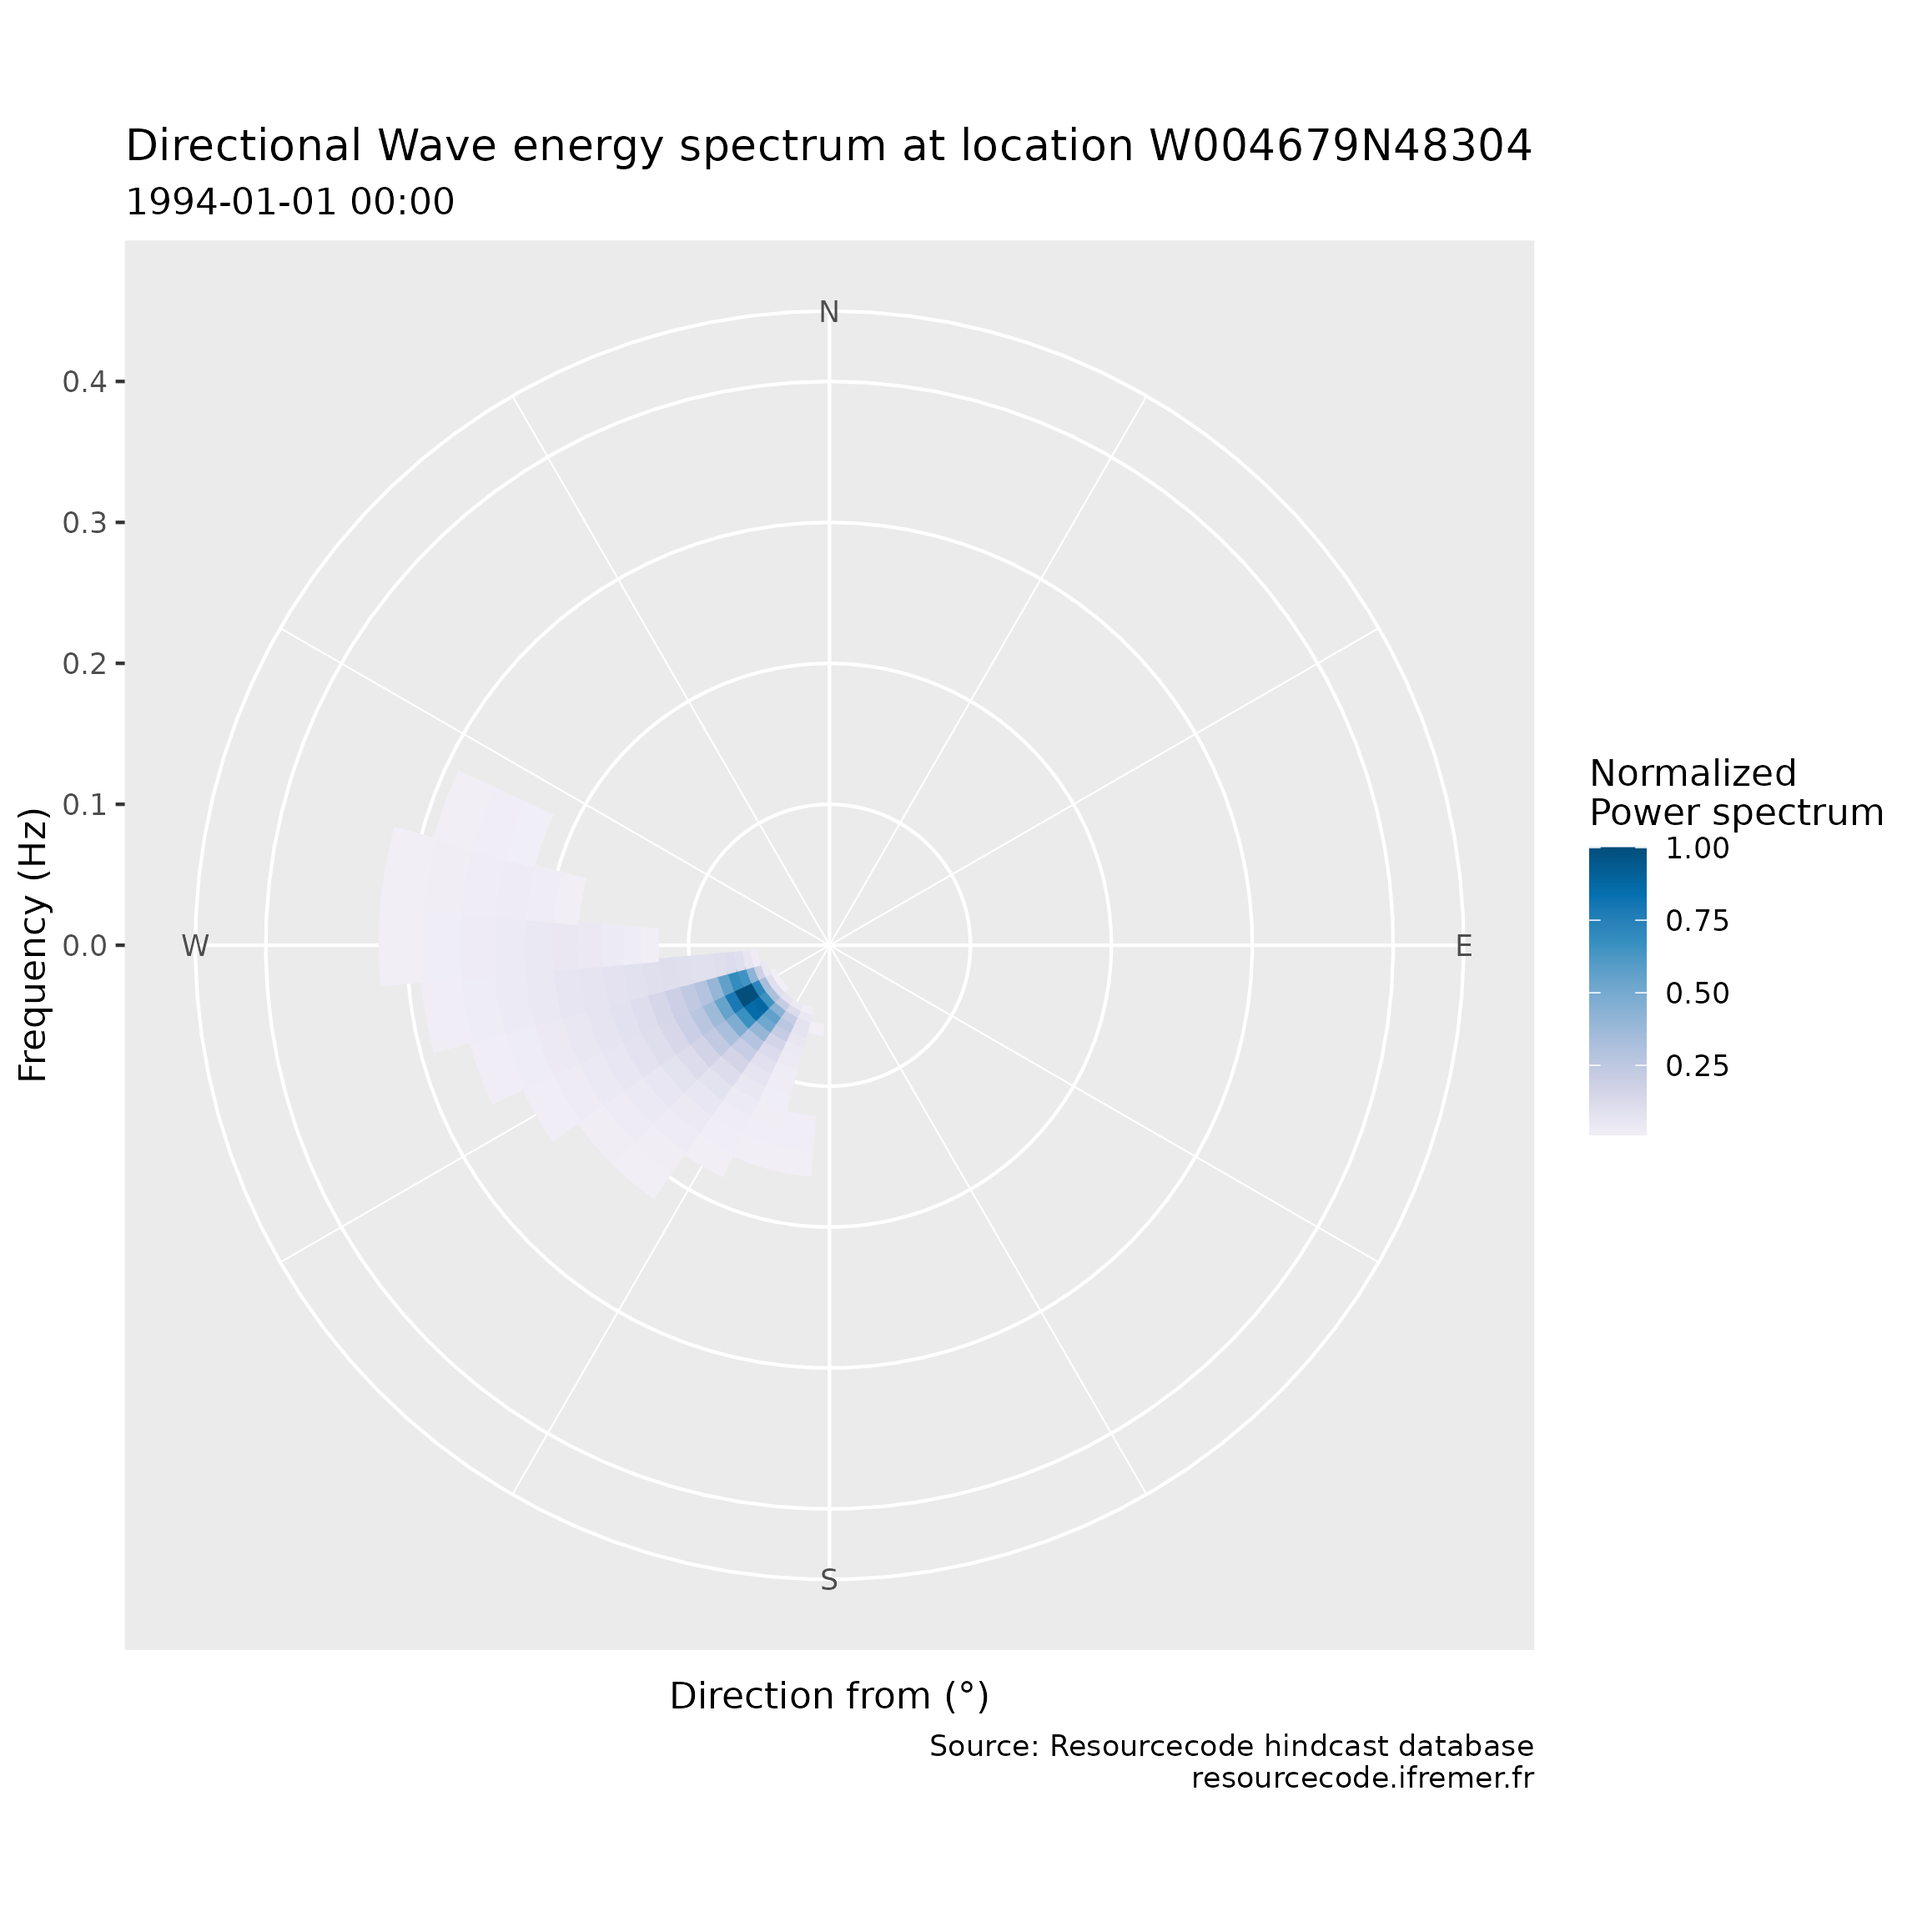
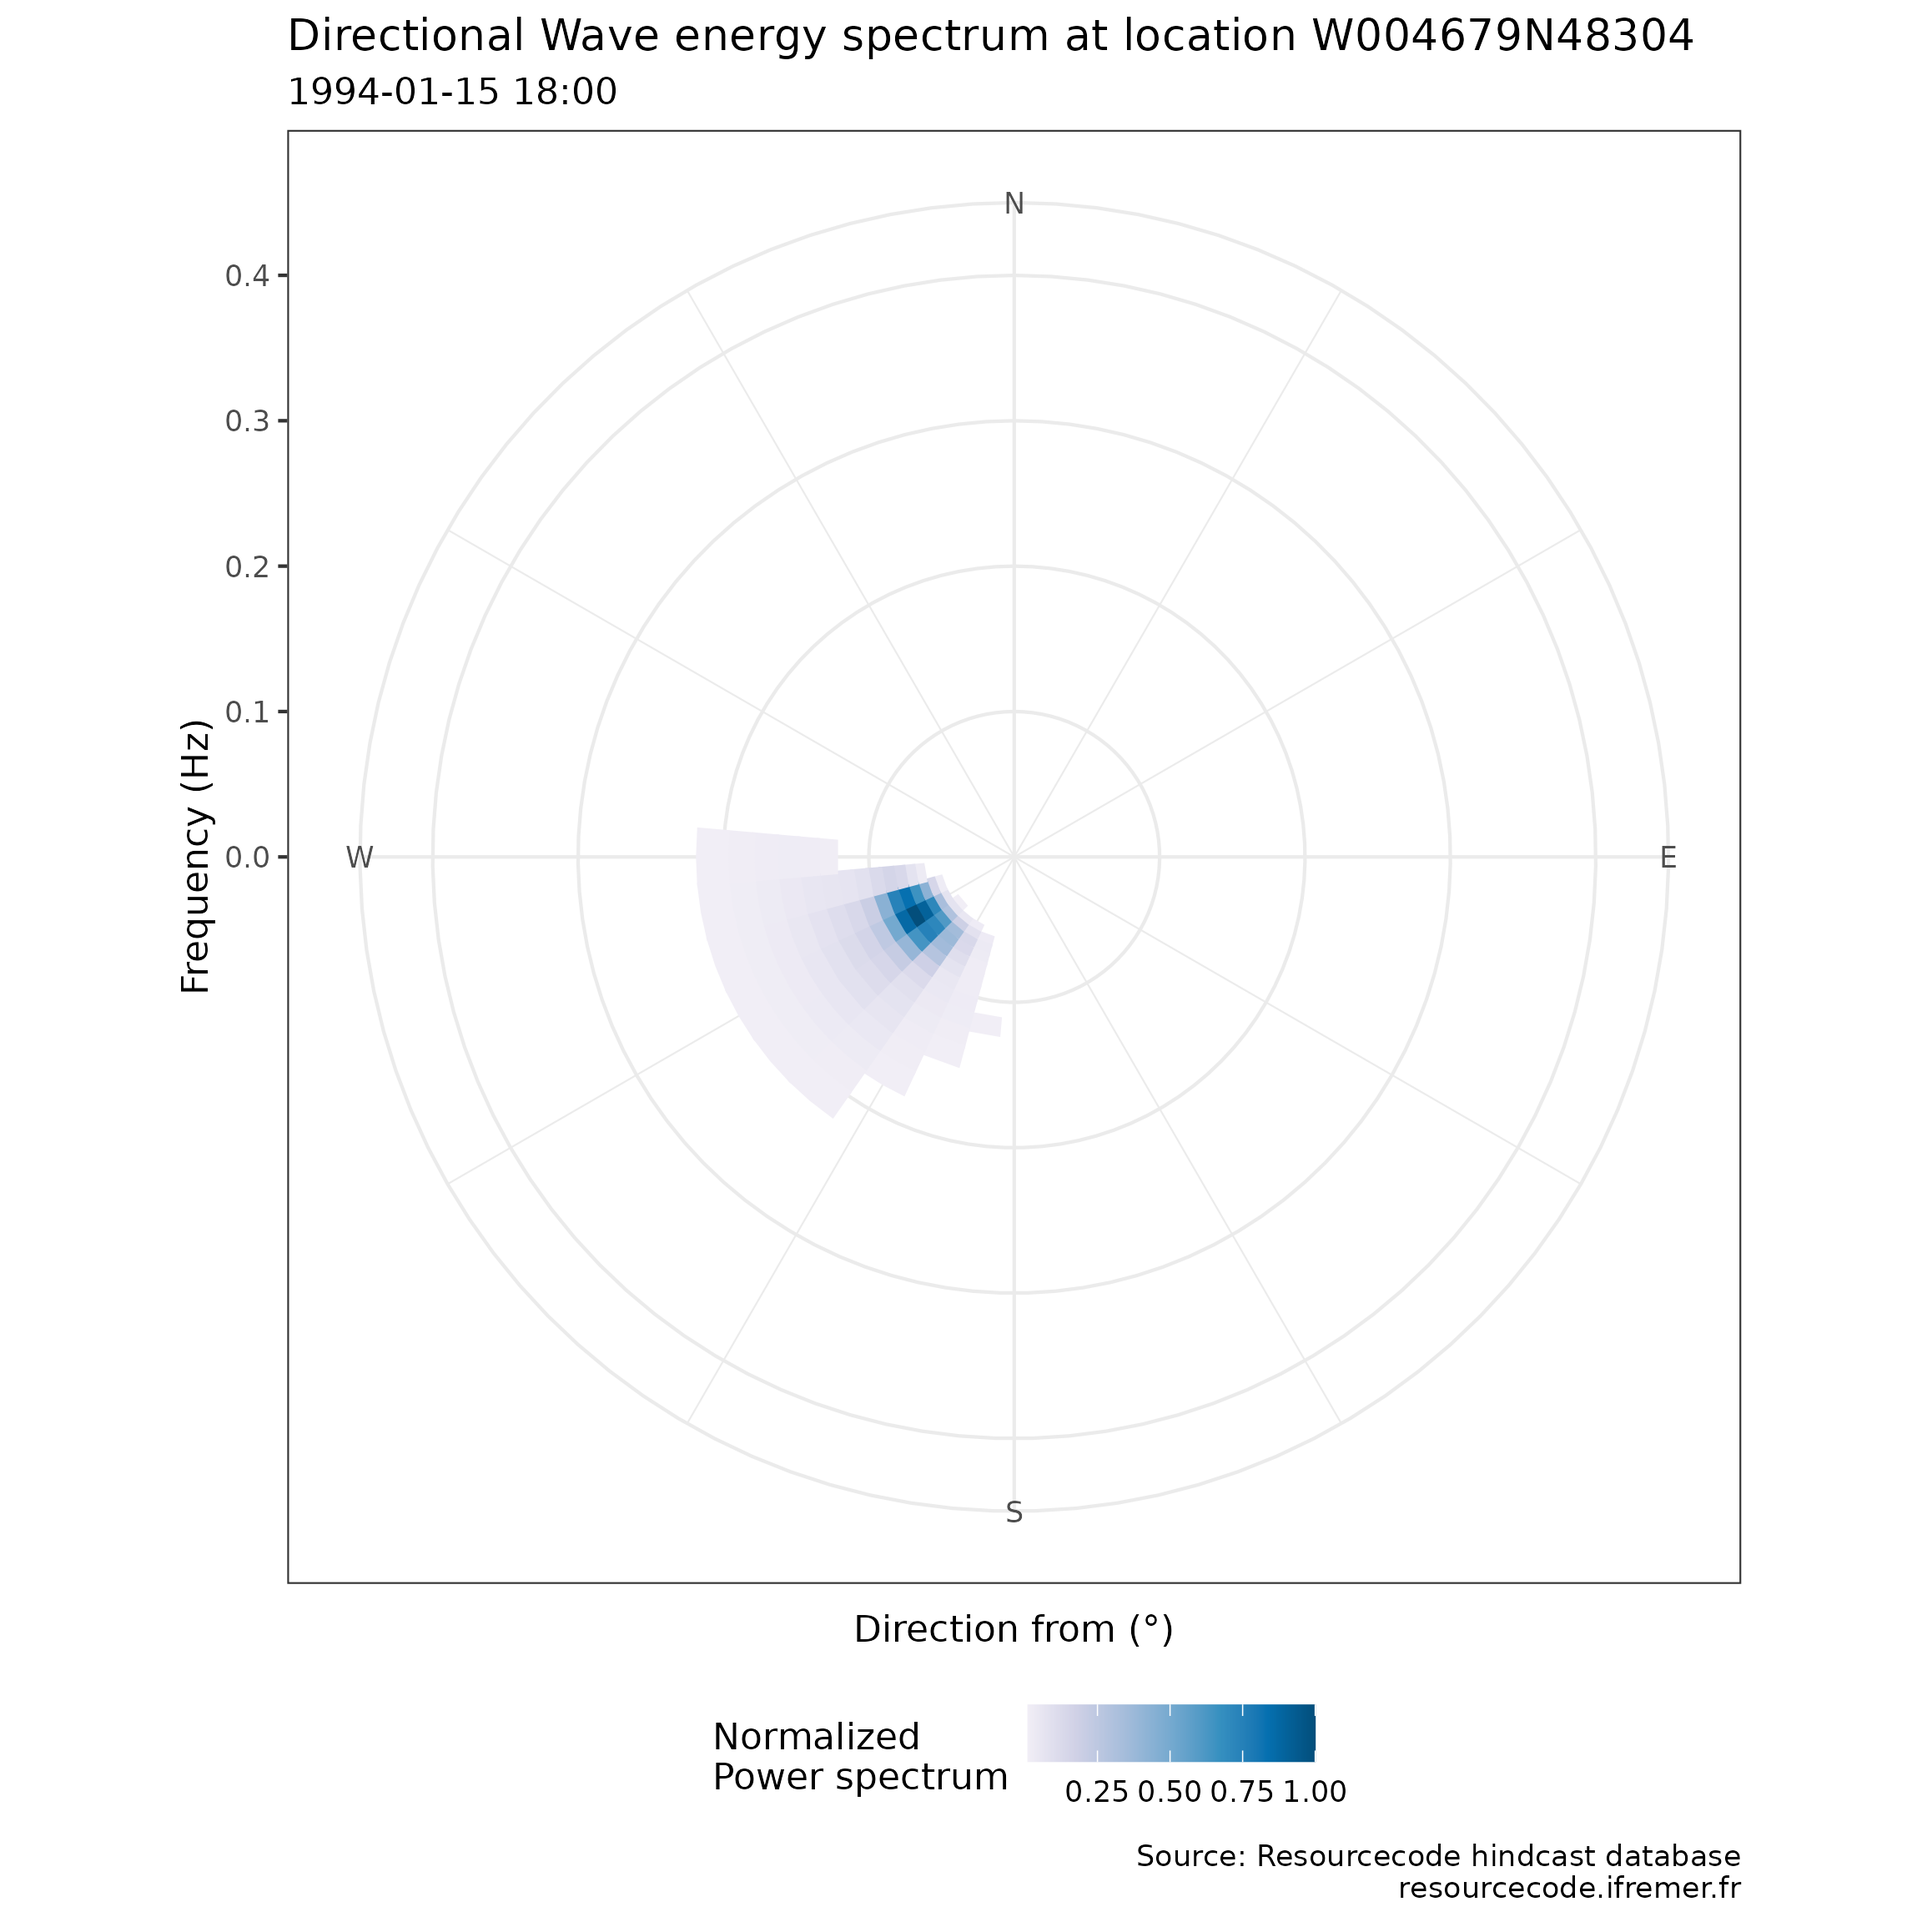
Deploying to gh-pages from @ NRaillard/resourcecode@8edae8f0654172dd95fc54afda9ae825e7df199f 🚀

diff --git a/reference/plot_2Dspecta.html b/reference/plot_2Dspecta.html
@@ -101,8 +101,7 @@
     <h2 id="ref-examples">Examples<a class="anchor" aria-label="anchor" href="#ref-examples"></a></h2>
     <div class="sourceCode"><pre class="sourceCode r"><code><span class="r-in"><span>  <span class="va">spec</span> <span class="op">=</span> <span class="fu"><a href="get_2Dspectrum.html">get_2Dspectrum</a></span><span class="op">(</span><span class="st">"SEMREVO"</span>,start<span class="op">=</span><span class="st">"1994-01-01"</span>,end<span class="op">=</span><span class="st">"1994-02-28"</span><span class="op">)</span></span></span>
 <span class="r-in"><span>  <span class="fu">plot_2Dspecta</span><span class="op">(</span><span class="va">spec</span>,<span class="fl">1</span><span class="op">)</span></span></span>
-<span class="r-wrn co"><span class="r-pr">#&gt;</span> <span class="warning">Warning: </span>Removed 360 rows containing missing values (`geom_rect()`).</span>
-<span class="r-plt img"><img src="plot_2Dspecta-1.png" alt="" width="700" height="433"></span>
+<span class="r-err co"><span class="r-pr">#&gt;</span> <span class="error">Error in theme_bw():</span> could not find function "theme_bw"</span>
 </code></pre></div>
     </div>
   </main><aside class="col-md-3"><nav id="toc"><h2>On this page</h2>

diff --git a/articles/resourcecode.html b/articles/resourcecode.html
@@ -337,9 +337,10 @@ of this downloaded data.</p>
 <span><span class="co">#&gt;   ..$ spr   : num [1:1416] 19.6 19.5 18.8 18 17.4 ...</span></span>
 <span><span class="co">#&gt;  $ station   : chr "W004679N48304"</span></span></code></pre></div>
 <p>in addition, it is possible to plot the wave elevation directional
-spectra for any given time:</p>
+spectra for any given time, which can be specified by the time index of
+directly the date:</p>
 <div class="sourceCode" id="cb11"><pre class="downlit sourceCode r">
-<code class="sourceCode R"><span><span class="fu"><a href="../reference/plot_2Dspecta.html">plot_2Dspecta</a></span><span class="op">(</span><span class="va">spec2D</span><span class="op">)</span></span></code></pre></div>
+<code class="sourceCode R"><span><span class="fu"><a href="../reference/plot_2Dspecta.html">plot_2Dspecta</a></span><span class="op">(</span><span class="va">spec2D</span>,<span class="st">"1994-01-15 18:00"</span><span class="op">)</span></span></code></pre></div>
 <p><img src="resourcecode_files/figure-html/unnamed-chunk-11-1.png" width="100%" style="display: block; margin: auto;"></p>
 </div>
   </main><aside class="col-md-3"><nav id="toc"><h2>On this page</h2>
